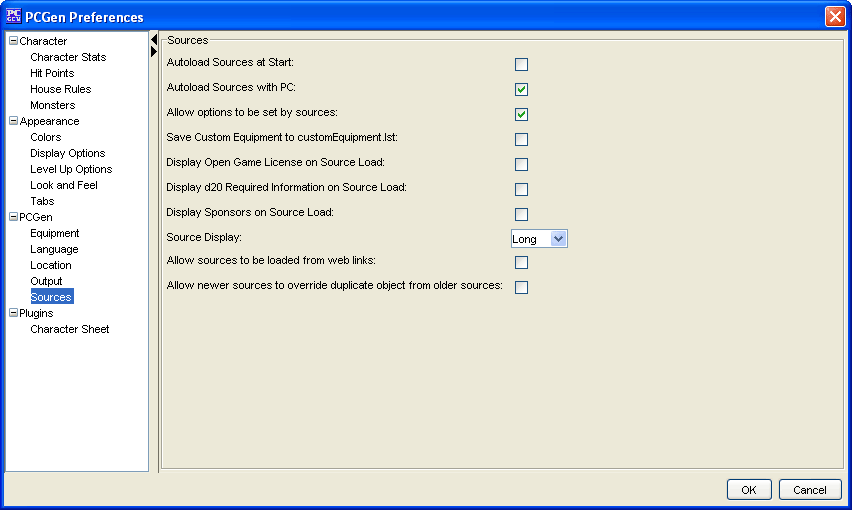
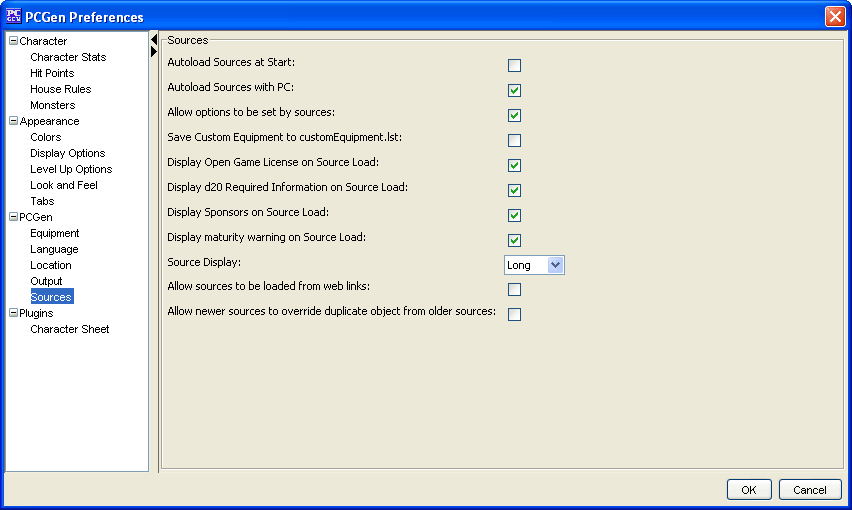
[ 1696529 ] Update screen shots for 5.12, missed a few of the new preferences
git-svn-id: svn+ssh://svn.code.sf.net/p/pcgen/code/Trunk/pcgen@3184 ef53c05b-3124-4d59-ae7d-fe3273f42be7

diff --git a/docs/menupages/settings/character/characterhitpointsoption.html b/docs/menupages/settings/character/characterhitpointsoption.html
@@ -35,14 +35,17 @@
 		<p>The <strong>Random</strong> option will present a random hitpoint total between 1 and the hit die 
 		type of the class/race when a class level is added. The user can modify this total if desired.</p>
 		
-		<p>The <strong>Always maximum</strong> option will always give the maximum hit points as defined by 
+		<p>The <strong>Average</strong> option will always give the average hit points as defined by 
 		the hit die type of the class/race.</p>
 		
-		<p>The <strong>Average</strong> option will always give the average hit points as defined by 
+		<p>The <strong>Always maximum</strong> option will always give the maximum hit points as defined by 
 		the hit die type of the class/race.</p>
 		
 		<p>The <strong>Percentage</strong> option allows the user to enter a percentage of the maximum hit points as defined by 
 		the hit die type of the class/race.</p>
+		
+		<p>The <strong>Average, Rounded Up</strong> option will always give the average hit points as defined by 
+		the hit die type of the class/race rounded up if the average results in a fraction.</p>
 		
 		<p>The <strong>Max Hp at first level </strong>option gives you maximum Hit Points at first level when 
 		you are creating your character.</p>

diff --git a/docs/menupages/settings/appearance/appearancelevelup.html b/docs/menupages/settings/appearance/appearancelevelup.html
@@ -28,7 +28,6 @@
 		<p>The <strong>Level Up Options</strong> menu option will allow you to set options for:</p>
 		<ul>
 			<li><strong>Show HP Dialog at Level Up</strong>. Shows the HP dialog box when you level up.</li>
-			<li><strong>Show Feat Dialog at Level Up</strong>. Shows the Feat dialog box as appropriate when you level up.</li>
 			<li><strong>Show Stat Dialog at Level Up</strong>. Shows the Stat dialog box as appropriate when you level up.</li>
 			<li><strong>Show abilities warning for each new character</strong>. Shows a reminder to set your abilities before leveling up.</li>
 			<li><strong>Enforce spending of skill points and feats before leveling up</strong>. 
